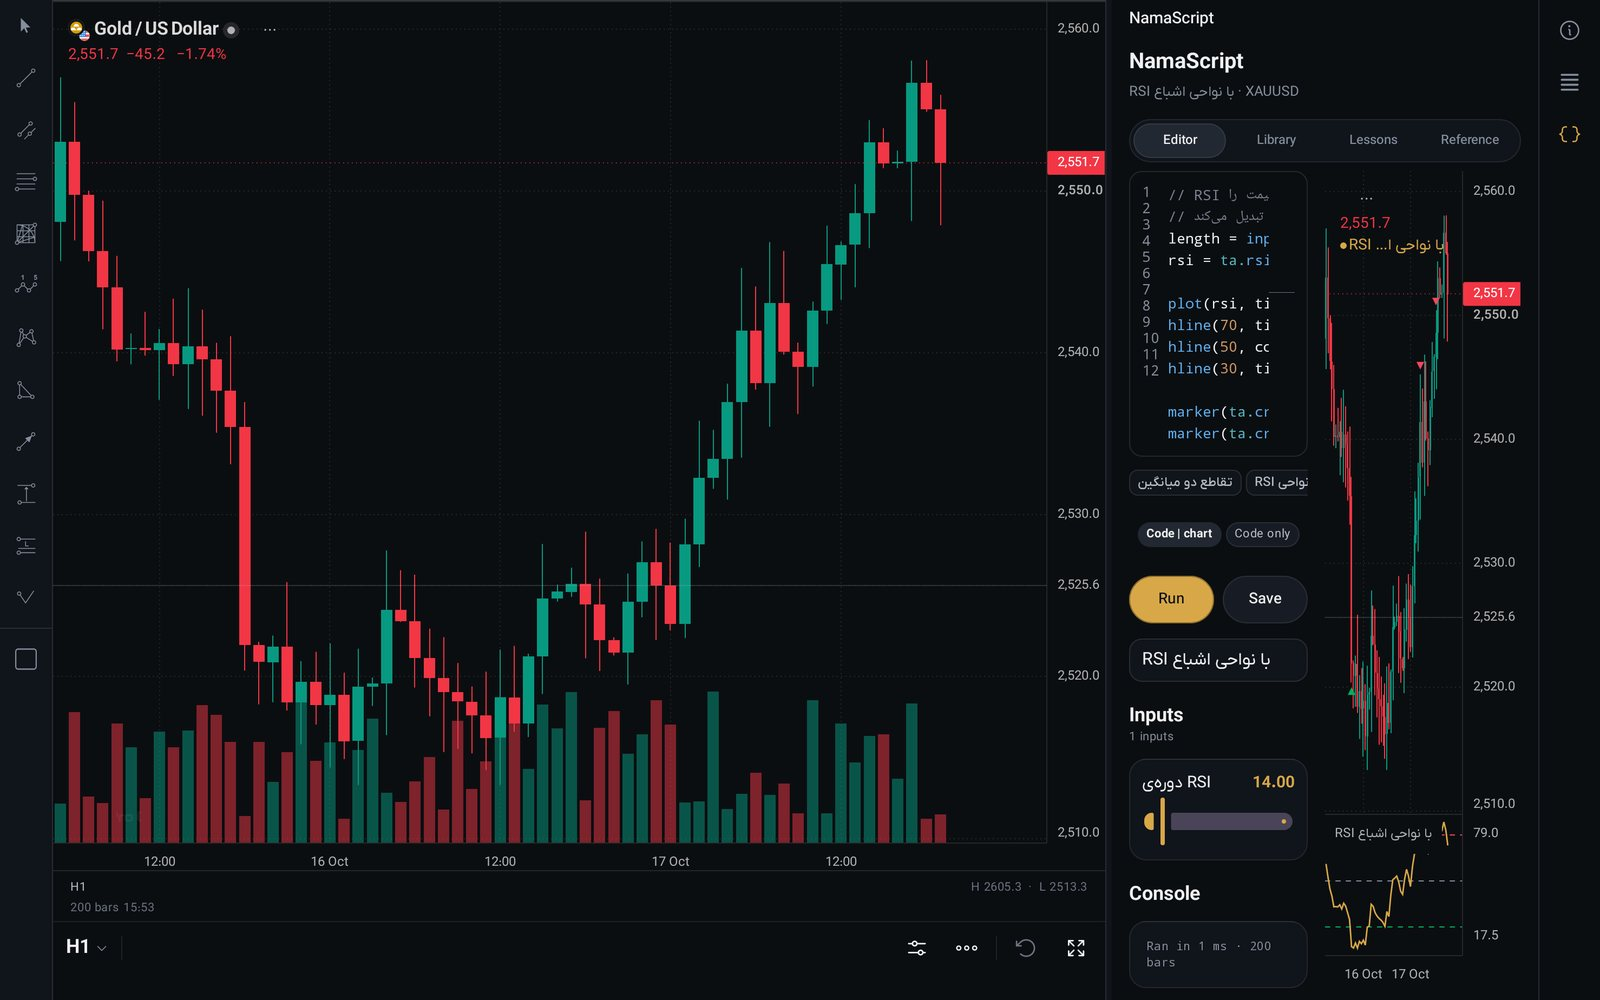
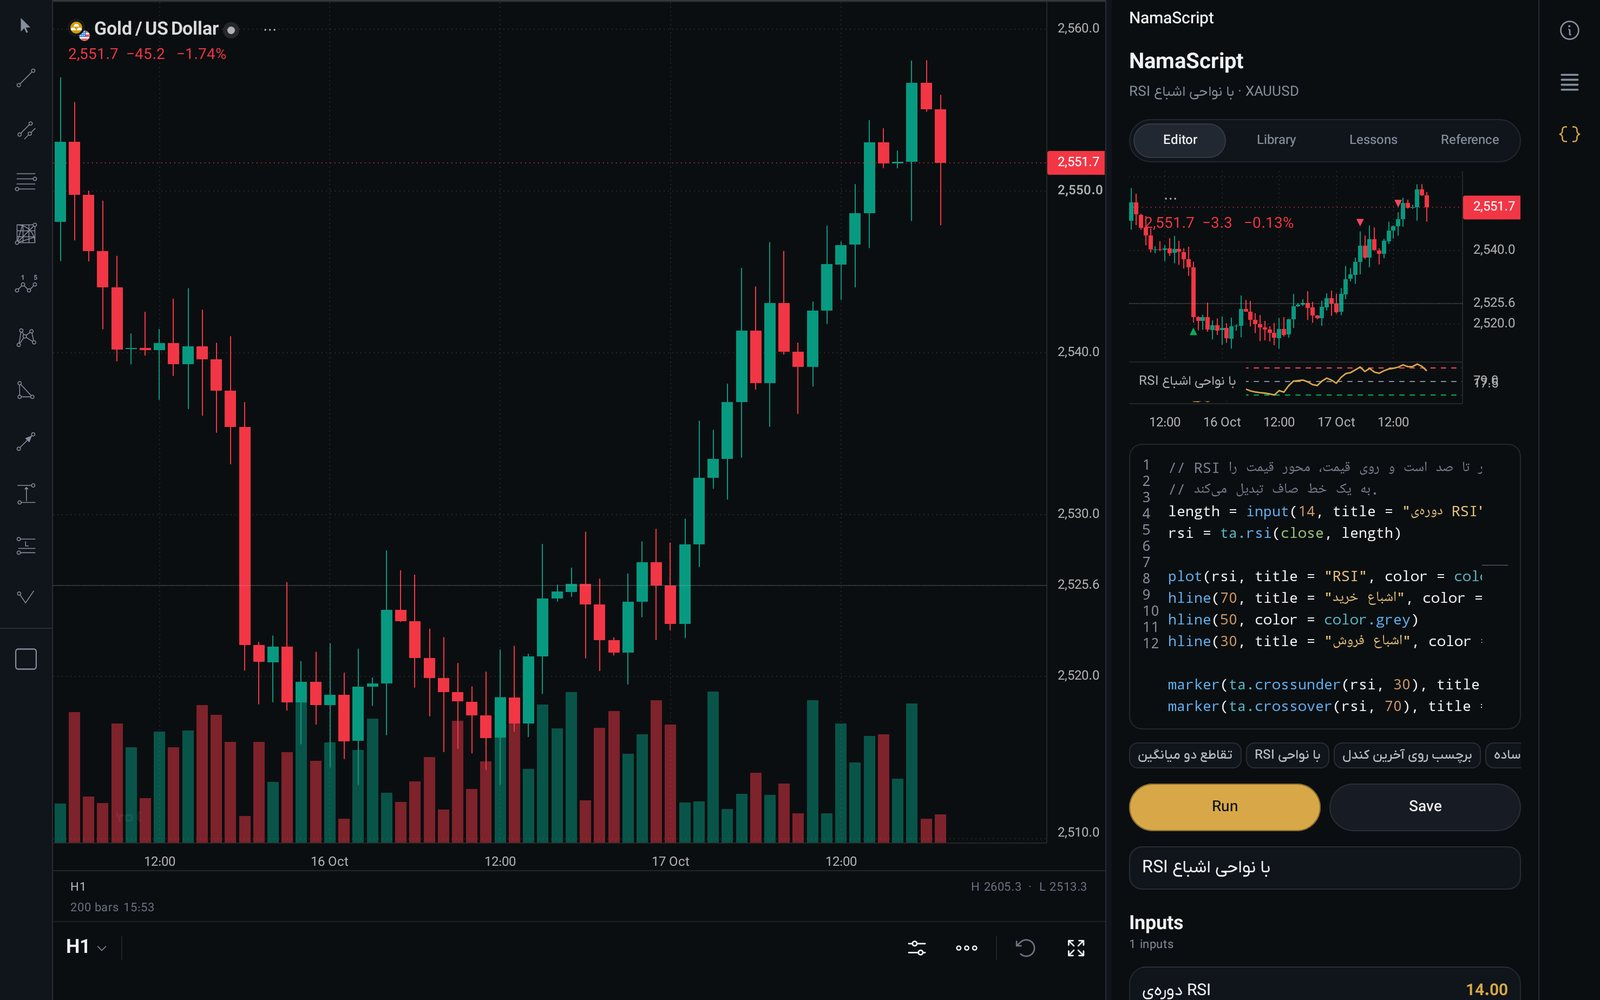
4.72.0 — the split asks the pane, not the screen
The NamaScript panel's split view read `showsTwoPanes`, which answers a
question about the *screen*. On a tablet that is true while the editor is a
400-point side panel, so it split fifty-fifty and left the code two hundred
points wide with `plot(rsi, ti` on a line — the opposite of what run H item 4
asked for.

The decision now comes from the pane's own width through a BoxWithConstraints:
two columns of EDITOR_MIN (400) with the gutter between them, or the split is
not offered at all. So the full editor screen splits on a Tab S9 Ultra and the
docked panel gives the editor all 480 of its points, code beside chart where
there is room for both and nowhere else.

Also: the side panel's drag grip is mirrored in Persian, where the panel sits at
the left of the glass and a drag to the right is what widens it.

One more proof frame (run-h-script-split-en-dark) with the toggle asserted
present at full width and absent in the panel; 583 tests and
:app:assembleRelease green; five gates green.

Claude-Session: https://claude.ai/code/session_014zb53GVbxZygftQP6J2gqN

Changed region(s): [[0.6875, 0.186, 0.9688, 1.0]]

diff --git a/feature/script/src/main/kotlin/com/coinepro/feature/script/ScriptScreen.kt b/feature/script/src/main/kotlin/com/coinepro/feature/script/ScriptScreen.kt
@@ -13,6 +13,7 @@ import androidx.compose.foundation.border
 import androidx.compose.foundation.clickable
 import androidx.compose.foundation.layout.Arrangement
 import androidx.compose.foundation.layout.Box
+import androidx.compose.foundation.layout.BoxWithConstraints
 import androidx.compose.foundation.layout.Column
 import androidx.compose.foundation.layout.PaddingValues
 import androidx.compose.foundation.layout.Row
@@ -93,7 +94,6 @@ import androidx.compose.material3.Switch
 import androidx.compose.ui.semantics.contentDescription
 import androidx.compose.ui.semantics.semantics
 import com.coinepro.core.script.ScriptInputKind
-import com.coinepro.core.designsystem.coineProWindowClass
 import com.coinepro.core.script.ScriptInput
 import com.coinepro.core.script.ScriptLesson
 import com.coinepro.core.script.ScriptLessons
@@ -251,7 +251,7 @@ private fun EditorTab(
     state: ScriptEditorState,
     series: CandleSeries,
     loading: Boolean,
-) {
+) = BoxWithConstraints(modifier = Modifier.fillMaxSize()) {
     // Named for the pane the script's own-pane plots land in, so a reader with three scripts saved
     // can tell which strip belongs to which.
     // The fallback name is read here, in composition, and handed to the memo — a resource lookup
@@ -299,13 +299,18 @@ private fun EditorTab(
             }
     }
 
-    // Item 5 of the 4.52 run: code | chart on an expanded window. The list is the same either
-    // way; only where the preview sits changes, and on a tablet it takes the whole height so a
-    // reader editing sees every plot move as they type.
-    // Code | chart, fifty-fifty, on a window that can hold both — and a **toggle**, because a
-    // reader writing a long script wants the editor to have the whole width for a minute and the
-    // preview back afterwards (run H item 4). The window decides the default; the reader decides.
-    val fits = coineProWindowClass().showsTwoPanes
+    // **Code | chart, fifty-fifty — and a toggle, decided by the pane's own width.**
+    //
+    // The preview is the same component either way; only where it sits changes. What changed in
+    // 4.72.0 is who decides: it used to ask `showsTwoPanes`, which is a question about the
+    // *screen*, and this screen is often a 400-point side panel on a tablet — where a fifty-fifty
+    // split leaves the editor two hundred points and `plot(rsi, ti` on a line. The floor is
+    // [EDITOR_MIN]; a split needs two of those with the gutter between them, and where that does
+    // not fit the split is not offered at all rather than offered and ruinous.
+    //
+    // Above the floor it is the reader's: somebody writing a long script wants the whole width for
+    // a minute and the preview back afterwards (run H item 4).
+    val fits = maxWidth >= EDITOR_MIN * 2 + CoineProSpacing.Gutter
     var splitOn by rememberSaveable(fits) { mutableStateOf(fits) }
     val split = fits && splitOn
     val editorItems: LazyListScope.() -> Unit = {
@@ -1357,6 +1362,14 @@ private val MINIMAP_WIDTH = 24.dp
 
 /** How much of a line's row the bar fills, so the map reads as lines rather than as a block. */
 private const val MINIMAP_BAR = 0.6f
+
+/**
+ * The narrowest an editor column may be: **400 points**, the owner's number for run H item 4.
+ *
+ * It is where a NamaScript line — `rsi = ta.rsi(close, length)` at the field's own size — stops
+ * wrapping. Below it the editor is not cramped, it is a different tool.
+ */
+internal val EDITOR_MIN = 400.dp
 
 /** The split toggle's two ids. Named so the chip row and the state cannot disagree by a typo. */
 private const val SPLIT_ON = "split"

diff --git a/app/src/test/kotlin/com/coinepro/app/RunHProofTest.kt b/app/src/test/kotlin/com/coinepro/app/RunHProofTest.kt
@@ -131,13 +131,33 @@ class RunHProofTest {
     @Config(sdk = [34], qualifiers = EN_S9U)
     fun chartAndScriptEnDark() {
         proof("run-h-chart-script-en-dark") { ChartAndScript() }
-        assertTrue("the editor's own words are English", texts().any { it == "Editor" })
-        assertTrue("and so is the console", texts().any { it == "Console" })
+        val shown = texts()
+        assertTrue("the editor's own words are English", shown.any { it == "Editor" })
+        assertTrue("and the panel's tabs are still there", shown.any { it == "Reference" })
+        // A docked panel is 400–480 points wide, which is one editor, not two columns. So the
+        // split is **not offered** here: halving it would leave the editor 200 points and
+        // `plot(rsi, ti` on a line, which is the thing item 4 is against.
+        assertTrue("no split toggle in a panel too narrow for one", shown.none { it == "Code | chart" })
     }
 
     @Test
     @Config(sdk = [34], qualifiers = FA_S9U)
     fun chartAndScriptFaDark() = proof("run-h-chart-script-fa-dark") { ChartAndScript() }
+
+    /**
+     * And the split itself, where there is room for it: the editor screen at full tablet width.
+     *
+     * Two columns of 400 points or nothing — so on the 1478-point Tab S9 Ultra the toggle is there
+     * and on by default, and the frame is the code beside a chart that redraws as the reader types.
+     */
+    @Test
+    @Config(sdk = [34], qualifiers = EN_S9U)
+    fun theScriptScreenSplitsWhereThereIsRoom() {
+        proof("run-h-script-split-en-dark") { FullScript() }
+        val shown = texts()
+        assertTrue("the split is offered at this width", shown.any { it == "Code | chart" })
+        assertTrue("and the other half of the toggle with it", shown.any { it == "Code only" })
+    }
 
     // ── the list-detail and the four charts ──────────────────────────────────────────────────
 
@@ -261,6 +281,20 @@ class RunHProofTest {
             }
         }
         ChartScreen(controller = controller)
+    }
+
+    /** The editor screen on its own, with the whole tablet to lay out in. */
+    @Composable
+    private fun FullScript() {
+        val series = ScreenshotFixtures.chartSeries(symbol = "XAUUSD")
+        val controller = remember {
+            ScreenshotFixtures.scriptController(scope).also {
+                it.setSeries(series)
+                it.openPreset(com.coinepro.core.script.ScriptPresets.byId("rsi-zones")!!)
+                it.run()
+            }
+        }
+        ScriptScreen(controller = controller, symbol = "XAUUSD", series = series)
     }
 
     @Composable

diff --git a/docs/engineering/REPORT.md b/docs/engineering/REPORT.md
@@ -692,7 +692,7 @@ was in, because none of them is a string resource.
 | 1 | A 48 dp vertical rail of group icons with flyouts; the full grid only in «all tools»; favourites pinned; the wide panel out of the default layout | **done**: `ChartToolRailColumn` is one 48-point column — twelve group glyphs in the catalogue's own order, the reader's favourites under a rule, and «all tools» at the foot. A group opens a 216-point **flyout beside the rail**, not a popup: a `DropdownMenu` is its own window, which is absent from a screenshot and awkward under a test, and a column is both hit-testable and photographable. Arming a tool closes it. `CHART_TOOL_COLUMN = 280.dp` is gone; the palette it drew is now what the sheet behind «all tools» shows, so every one of the 92 tools is reachable from the rail by construction | `RunHProofTest.theRailAndAFlyout` — the rail is on the page, **measured from its own semantics bounds at 48 dp**, and tapping «Lines» lists «Trend line»; `run-h-rail-flyout-en-dark`, `run-h-rail-flyout-open-en-dark` |
 | 2 | The chart fills the column height on every tablet layout; «market reading & tools» into a side-panel tab, never over the candles | **done**: the page's column stops scrolling once there are rails beside it (`fills = columns != NONE`) and the canvas takes `weight(1f)`, so the plot is every point the legend and the toolbar did not take. The readings are no longer a column or a disclosure at all — `ChartWorkbench` turns the `readings` slot into a `ChartSidePanel(READINGS_PANEL_ID)` and prepends it to the side rail, so they are a **tab** like depth and alerts | `run-h-chart-depth-*` (three devices/themes) — the plot runs from the header to the time axis with no blank band; `ChartWorkbenchTest.a tablet with a docked panel reports both, so the page draws no readings of its own` |
 | 3 | Expanded budget: rail 48 · plot ≥ 65 % of what is left · panel 360–480 drag-resizable, floor 320 · icon rail 56. List-detail: 320–400 + chart | **done** as arithmetic rather than as constants: `panelWidthFor(windowDp, draggedDp)` clamps the panel to `[320, 480]` **and** to whatever keeps the plot at `CHART_PLOT_SHARE = 0.65` of the space between the two rails. The grip is a 6-point draggable strip with `contentDescription = "side-panel-grip"`; the dragged width is remembered per window | `ChartWorkbenchTest.a docked panel never takes the plot below its share` (1024, 1280, 1480, 1600 dp) and `a drag is clamped to the panel's own range`; `no rail is ever opened at the cost of the plot's floor` walks every width from 300 to 2400 in 4-point steps |
-| 4 | NamaScript on Expanded: editor ≥ 400, code\|chart 50/50 toggle, no soft wrap, line numbers, minimap, keep the tabs | **done**: the panel's own floor is the 400 the editor needs. The code field sits in a `horizontalScroll`, which gives it unbounded width and so **stops it wrapping** — `softWrap = false` is not on the `TextFieldValue` overload, and a wrapped line in a language with 90-character `ta.*` calls is an editor you cannot read a stack trace against. Line numbers were already there; the minimap is a 24-point `Canvas` drawing one bar per line at 60 % of its length; the split toggle is two chips and remembers its state per window | `run-h-chart-script-en-dark`, `run-h-chart-script-fa-dark`; `CodeFieldTest` |
+| 4 | NamaScript on Expanded: editor ≥ 400, code\|chart 50/50 toggle, no soft wrap, line numbers, minimap, keep the tabs | **done**: the panel's own floor is the 400 the editor needs. The code field sits in a `horizontalScroll`, which gives it unbounded width and so **stops it wrapping** — `softWrap = false` is not on the `TextFieldValue` overload, and a wrapped line in a language with 90-character `ta.*` calls is an editor you cannot read a stack trace against. Line numbers were already there; the minimap is a 24-point `Canvas` drawing one bar per line at 60 % of its length. The split is decided by **the pane's own width**, not the window's: `showsTwoPanes` answers a question about the screen, and this screen is often a 400-point side panel, where a fifty-fifty split leaves the editor two hundred points and `plot(rsi, ti` on a line. Two columns of `EDITOR_MIN` or the split is not offered at all | `theScriptScreenSplitsWhereThereIsRoom` — the toggle is there on a 1478-point tablet (`run-h-script-split-en-dark`, code beside chart); `chartAndScriptEnDark` — it is **absent** in the docked panel, which gets the whole 480 points for the editor (`run-h-chart-script-en-dark`, `run-h-chart-script-fa-dark`); `CodeFieldTest` |
 | 5 | Tool names, tool groups, market-reading values and every panel label from `values/`+`values-fa/`; a UI test that walks the tablet in `en` and fails on Arabic script | **done**, and the leak was bigger than the review: the tools are a catalogue in `:chart-core`, a module with **no Android resources**, so `strings.xml` could not reach them. `DrawingTool` and `ToolGroup` carry an `englishLabel` beside the Persian one — 92 tools and 12 groups, name for name — and `label(english)` chooses. `ChartReading` does the same for «متوسط · کم · خنثی», and publishes `TRENDING_FLOOR` so the colour rule compares the **number** rather than the word it used to match on. The editor's own 57 literals and the legend's six controls became resources | `TabletEnglishTest`: renders the tablet chart and the tablet watchlist in `en-rUS-w1280dp` and fails on any `[-ۿ]` **including content descriptions**, plus `everyToolAndGroupHasAnEnglishName`, which also fails a row copied from the column beside it |
 | 6 | The timeframe **code** in multi-chart headers; the ladder bound to the active chart's symbol; one «Depth of market» title; «نمااسکریپت» spelling only | **done**: `ChartPanesScreen` writes `state.interval.code` («H1»), not the prose name. The ladder was already bound to `activeChartSymbol` in the app — the BTCUSDT-beside-XAUUSD frame was a **fixture** defect, and the fixture is seeded per symbol now. `DepthOfMarketScreen`/`DepthOfMarketBody` take `showTitle`, so the docked copy draws the name once and the rail's tab draws the other | `fourChartsEachWithItsOwnMarket` — four symbols, «H1» present, «۱ ساعت» absent; `theDockedLadderNamesItselfOnce` counts the title in **drawn text only**, since the rail glyph carries it as a description |
 | 7 | Volume at 18 % of the plot and 50 % opacity on every size class | **already true, now stated**: `VOLUME_INLINE = 0.18f` and `VOLUME_ALPHA = 0.5f` are two constants with no size-class branch anywhere. What made the tablet's band look like a quarter of the plot was item 2 — a short plot with a band scaled to it — and the frames after the fix measure the tallest bar at 18 % of a full-height plot | `run-h-chart-depth-en-dark` and the constants, which a branch would have to be added beside |

diff --git a/CHANGELOG.md b/CHANGELOG.md
@@ -35,8 +35,10 @@ phone's page with columns bolted to it, and the chart it exists to show was 45 %
 - **The side panel is drag-resizable, between 320 and 480 points** — and never wider than leaves the
   plot 65 % of the space between the two rails, whichever of the two binds first.
 - **The NamaScript editor does not wrap.** The code field scrolls horizontally, which is what a
-  language with 90-character indicator calls needs; the split view toggles code|chart at 50/50; a
-  24-point minimap sits beside the line numbers. The tabs stay.
+  language with 90-character indicator calls needs; a 24-point minimap sits beside the line
+  numbers. The code|chart split is decided by the pane's own width rather than the window's — two
+  columns of 400 points or it is not offered — so the full editor screen splits and the docked
+  panel gives the editor all 480 of its points. The tabs stay.
 - **Multi-chart headers carry the timeframe code** — «H1», not «۱ ساعت» — which is what the pane
   legend has room for and what the toolbar below says.
 
